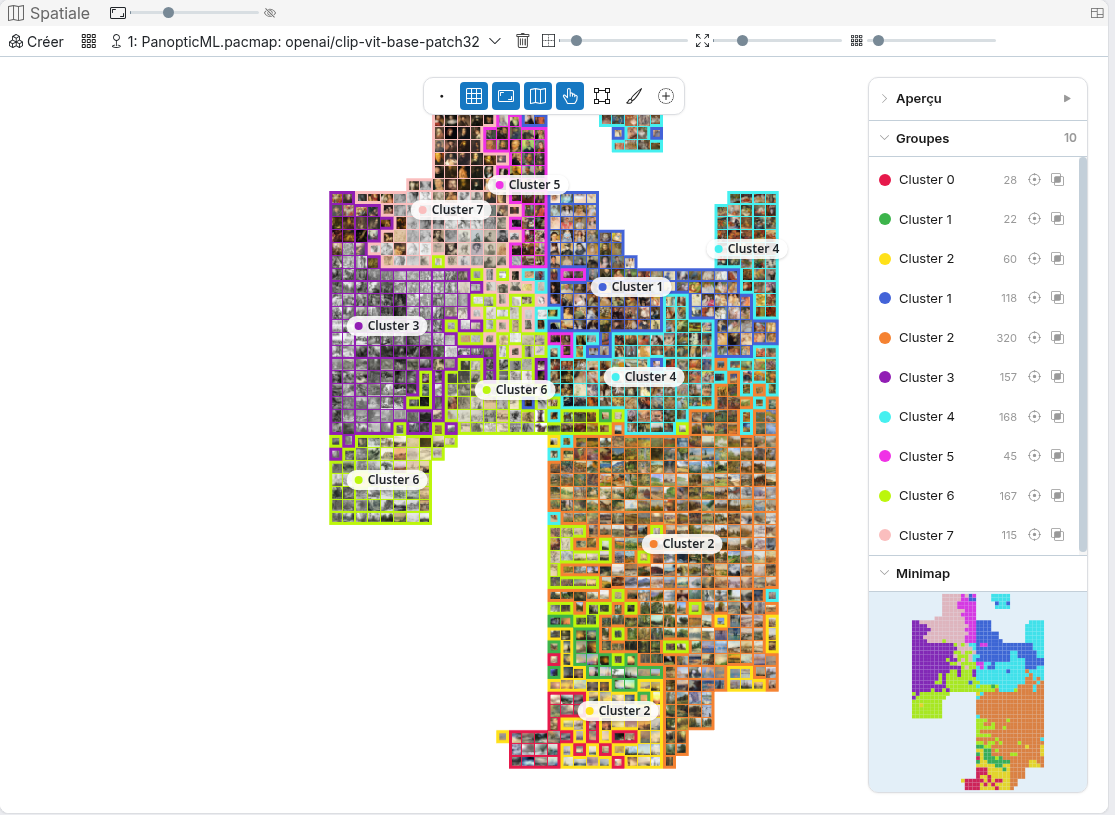
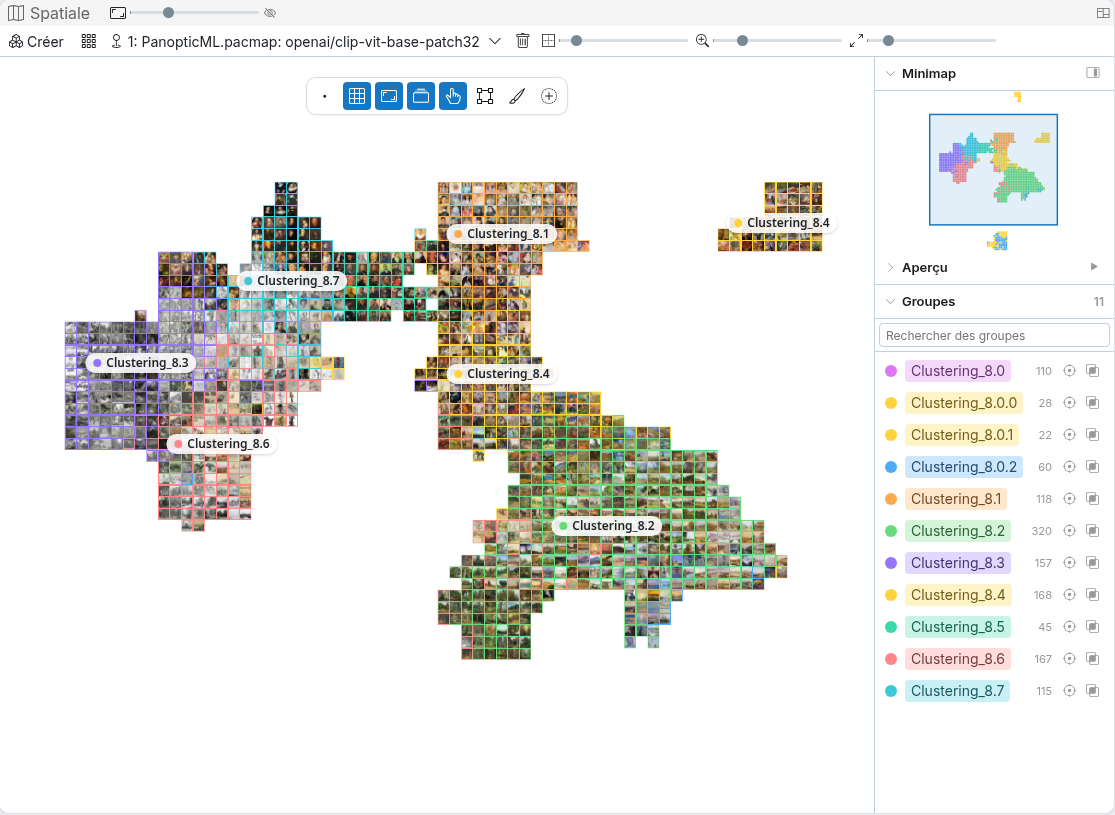
update views docs

diff --git a/docs/fr/advanced/onglets.md b/docs/fr/advanced/onglets.md
@@ -6,117 +6,10 @@ Les onglets se trouvent en haut à droite de l'écran. Le "+" crée un nouvel on
 
 ![Alt text](../images/v1/onglets.png)
 
+Chaque onglet a ses propres [filtres, tris et groupes](/start/filters/), ainsi que sa propre [vue](/start/vues/) et ses propriétés affichées. Passer d'un onglet à l'autre permet donc de retrouver instantanément chaque espace de travail dans l'état où on l'a laissé.
+
+Les onglets sont également propres à chaque [utilisateur](/start/projets/#utilisateurs) : lorsque plusieurs personnes travaillent sur un même projet, chacune retrouve ses propres onglets, sans modifier ceux des autres. Les annotations, elles, restent communes à tout le projet.
+
 ## Exemple de cas d'usage
 
 L'objectif est de pouvoir créer des espace de travail dédiés à certains objets à l'aide des filtres des tris et des groupes. Un exemple basique est l'utilisation d'un onglet "poubelle". On utilise un premier onglet d'exploration, dans lequel on annote les images avec une propriété de type checkbox "hors corpus" tout en appliquant un filtre sur cette propriété. Toutes les images qui sont cochées disparaissent alors instantanément du premier onglet grâce à ce filtre et aparaissent dans un autre onglet qui a le filtre inverse (c'est à dire ne laissant apparaître que les images qui ont la case "hors corpus" de cochée). Cela permet de revenir de temps en temps se concentrer sur l'onglet "poubelle" afin de revisionner les images qui ont été désignées comme hors corpus et de vérifier que l'on a pas fait d'erreur, sans pour autant devoir voir ces images là dans la vue principale.
-
-## Les vues
-
-Si chaque onglet peut avoir ses propres filtres, tris et groupes, il est également possible de configurer l'affichage désiré au niveau de l'onglet en choisissant la [vue](/concepts/#vues), dans le menu situé en haut à gauche des images. ![Alt text](../images/v1/vues.png)
-
-À droite du nom de la vue, le curseur permet de régler la taille des images et l'icône d'oeil d'afficher ou de masquer les propriétés sous les images.
-
-### La vue grille
-La vue par défaut, affiche une simple grille d'images.
-
-### La vue tableau
-
-Une vue sous forme de tableau classique, elle permet de se concentrer plus sur les propriétés accompagnant les images, notamment les propriétés de type texte pouvant prendre de la place. Chaque propriété affichée devient une colonne, dont la largeur peut être ajustée.
-
-![Alt text](../images/v1/vue-tableau.png)
-
-### La vue graphique
-
-Vue permettant d'afficher des graphiques montrant le nombre d'images contenues dans un groupage : le premier niveau de groupe devient l'axe horizontal. Exemple, si je groupe mes images par mouvement artistique et passe en vue graphique, je peux afficher le nombre d'images pour chaque mouvement, ainsi qu'une prévisualisation des images en survolant une barre ou un point. Les boutons en haut à gauche permettent de choisir entre courbes, aires et barres, et d'afficher une vignette sur chaque point. Il est aussi possible de cliquer ou de glisser sur le graphique pour sélectionner les images correspondantes.
-
-![Alt text](../images/v1/vue-graphe.png)
-
-!!! note
-
-    Il est à noter que tous les filtres et tris sont également appliqués en temps réel dans cette vue, ce qui vous permet de modifier votre graphique à la volée en fonction d'autres propriétés que vous auriez.
-    De même le groupage par date permet de changer la granularité du groupage en choisissant à la minute, heure, jour, semaine, mois, année. Ces changements sont également répercutés sur le graphe.
-
-Il est également possible de rajouter un second niveau de groupage permettant de fractionner le graphique en fonction d'une autre propriété : chaque valeur devient alors une série. Ici par exemple on rajoute un groupage par artiste après le groupage par mouvement. On a également choisi les barres et activé l'option "Empiler les séries".
-
-![Alt text](../images/v1/vue-graphe-empilee.png)
-
-### La vue spatiale
-
-La vue spatiale place les images sur une carte en deux dimensions : les images proches visuellement ou sémantiquement sont placées côte à côte. Pour l'utiliser, il faut d'abord créer une carte en cliquant sur "Créer", choisir les vecteurs à utiliser, éventuellement donner un nom à la carte, puis cliquer sur "Lancer".
-
-![Alt text](../images/v1/vue-spatiale-creer.png)
-
-Une fois la carte calculée, on peut s'y déplacer et zoomer à la souris. Dans l'exemple, on distingue nettement les dessins et gravures à gauche, les portraits en haut et les paysages en bas à droite. Le menu déroulant permet de passer d'une carte à une autre si plusieurs ont été créées, et la corbeille de supprimer la carte affichée. Les curseurs à droite de la corbeille règlent la largeur de la bordure des images et la taille de l'agrandissement affiché au survol d'une image.
-
-À droite de la carte, le panneau "Aperçu" affiche l'image survolée, et la "Minimap" montre l'ensemble de la carte avec, encadrée, la zone affichée : cliquer ou glisser sur la minimap permet de se déplacer rapidement. Chaque section du panneau peut être repliée en cliquant sur son titre.
-
-![Alt text](../images/v1/vue-spatiale.png)
-
-La barre d'outils au-dessus de la carte permet d'afficher les images sous forme de points, de passer en disposition en grille (voir plus bas), de se déplacer (main), ou de sélectionner des images en les entourant au lasso : le clic gauche ajoute les images entourées à la sélection, le clic droit les en retire. Les images ainsi sélectionnées peuvent ensuite être annotées par lots comme dans la grille. Quel que soit l'outil choisi, maintenir la touche espace enfoncée permet de déplacer la carte.
-
-Si les images sont groupées, chaque groupe est entouré d'une couleur différente et la liste des groupes s'affiche dans le panneau de droite. Cliquer sur un groupe de la liste le met en avant sur la carte, et les icônes à droite de son nom permettent de centrer la carte sur ce groupe ou d'y créer des clusters.
-
-![Alt text](../images/v1/vue-spatiale-groupes.png)
-
-#### La disposition en grille
-
-Dans les zones denses de la carte, les images se chevauchent et deviennent difficiles à distinguer. L'icône de grille de la barre d'outils range chaque image dans une case d'une grille régulière, sans aucun chevauchement, tout en conservant l'organisation de la carte : des images proches sur la carte restent voisines dans la grille, et des ensembles éloignés restent séparés par des cases vides. Un nouveau clic sur la même icône permet de revenir à tout moment à la disposition d'origine.
-
-![Alt text](../images/v1/vue-spatiale-outils.png)
-
-En mode grille, de nouvelles icônes apparaissent dans la barre d'outils, de gauche à droite après l'icône de grille :
-
-- **Remplir les cases** : recadre chaque image en carré pour qu'elle occupe toute sa case.
-- **Contours et noms des groupes** (seulement si les images sont groupées) : trace le contour de chaque groupe et affiche son nom sur la carte lorsque l'on dézoome, pour la lire comme une carte géographique.
-- **Sélection par cases** et **Pinceau à tags**, décrits ci-dessous.
-
-Le curseur "Cases vides entre les groupes", qui apparaît à droite des autres curseurs, règle l'espace laissé entre les ensembles d'images : plus la valeur est élevée, plus les groupes éloignés sur la carte sont séparés.
-
-![Alt text](../images/v1/vue-spatiale-grille.png)
-
-Dans l'exemple, les images ont été réparties en clusters : chaque cluster forme une région de la grille, entourée de sa couleur et portant son nom.
-
-!!! note
-
-    La grille est calculée une seule fois pour toute la carte. Lorsqu'un filtre masque des images, celles-ci laissent simplement leur case vide et les autres images ne bougent pas, ce qui permet de garder ses repères d'un filtre à l'autre.
-
-#### La sélection par cases
-
-L'outil de sélection par cases (icône de cadre) affiche un curseur carré qui couvre plusieurs cases de la grille. Il suffit de cliquer ou de glisser sur la carte pour sélectionner toutes les images couvertes, comme avec un pinceau. Les cases parcourues sont colorées pendant le geste, et la sélection est appliquée au relâchement du bouton.
-
-- le clic gauche ajoute les images à la sélection, le clic droit les en retire,
-- ctrl + molette change la taille du curseur (le nombre de cases couvertes est affiché en bas de la carte),
-- maintenir shift permet de sélectionner un rectangle entre la case de départ et la case courante.
-
-![Alt text](../images/v1/vue-spatiale-cases.png)
-
-Ici, 54 images ont été sélectionnées en quelques coups de curseur : la barre de sélection apparaît en haut de l'écran et les images peuvent être annotées par lots comme d'habitude (voir [Annoter par lots](/start/annotate/#annoter-par-lots)).
-
-#### Le pinceau à tags
-
-Le pinceau à tags (icône de pinceau) fonctionne avec les mêmes gestes que la sélection par cases, mais au lieu de sélectionner les images, il leur attribue directement un tag. Il permet ainsi d'annoter très rapidement toute une zone de la carte.
-
-Lorsque l'outil est actif, une section "Pinceau" apparaît en haut du panneau de droite. On y choisit la propriété de type tag ou multitags à annoter, puis le tag à appliquer : comme sous les images, il est possible de rechercher un tag existant ou d'en créer un nouveau à la volée, et de changer sa couleur. La croix à côté du tag permet de le désélectionner.
-
-![Alt text](../images/v1/vue-spatiale-pinceau.png)
-
-Tant qu'un tag est choisi, la carte montre ce qui a déjà été peint : les images qui portent le tag sont entourées de sa couleur, les autres sont grisées. Il suffit ensuite de peindre :
-
-- le clic gauche ajoute le tag aux images couvertes, le clic droit le leur retire,
-- ctrl + molette change la taille du pinceau et shift permet de peindre un rectangle, comme pour la sélection par cases.
-
-Pour une propriété de type tag, le tag peint remplace la valeur existante, alors que pour une propriété de type multitags il s'ajoute aux tags déjà présents. Chaque coup de pinceau est enregistré comme une seule modification dans l'historique et peut donc être annulé d'un coup avec ctrl + z.
-
-### La vue recommandations
-
-Cette vue propose des images similaires à un groupe pour le compléter (voir [Les recommandations](/start/reco/)).
-
-### La vue groupée
-
-Cette vue résume chaque groupe ou cluster par une mosaïque de quelques images. Elle est particulièrement utile pour avoir une vue d'ensemble des clusters et pour les annoter avec le bouton "Assigner à…" (voir [Les clusters](/start/clusters/)).
-
-## Diviser la vue
-
-L'icône en haut à droite des images ("Diviser à droite") permet d'afficher une seconde vue à côté de la première, dans le même onglet. On peut ainsi par exemple garder une grille d'images à gauche tout en consultant le tableau des propriétés à droite. Chaque côté a sa propre vue, sa taille d'images et ses propriétés affichées. La même icône, sur la vue de droite, permet de revenir à une seule vue.
-
-![Alt text](../images/v1/vue-divisee.png)

diff --git a/docs/fr/start/vues.md b/docs/fr/start/vues.md
@@ -1,0 +1,120 @@
+# Les vues
+
+Panoptic propose plusieurs façons d'afficher les images, appelées [vues](/concepts/#vues). On choisit la vue dans le menu situé en haut à gauche des images. Chaque [onglet](/advanced/onglets/) garde sa propre vue, en plus de ses filtres, tris et groupes.
+
+![Alt text](../images/v1/vues.png)
+
+À droite du nom de la vue, le curseur permet de régler la taille des images et l'icône d'oeil d'afficher ou de masquer les propriétés sous les images.
+
+## La vue grille
+La vue par défaut, affiche une simple grille d'images.
+
+## La vue tableau
+
+Une vue sous forme de tableau classique, elle permet de se concentrer plus sur les propriétés accompagnant les images, notamment les propriétés de type texte pouvant prendre de la place. Chaque propriété affichée devient une colonne, dont la largeur peut être ajustée.
+
+![Alt text](../images/v1/vue-tableau.png)
+
+## La vue graphique
+
+Vue permettant d'afficher des graphiques montrant le nombre d'images contenues dans un groupage : le premier niveau de groupe devient l'axe horizontal. Exemple, si je groupe mes images par mouvement artistique et passe en vue graphique, je peux afficher le nombre d'images pour chaque mouvement, ainsi qu'une prévisualisation des images en survolant une barre ou un point. Les boutons en haut à gauche permettent de choisir entre courbes, aires et barres, et d'afficher une vignette sur chaque point. Il est aussi possible de cliquer ou de glisser sur le graphique pour sélectionner les images correspondantes.
+
+![Alt text](../images/v1/vue-graphe.png)
+
+!!! note
+
+    Il est à noter que tous les filtres et tris sont également appliqués en temps réel dans cette vue, ce qui vous permet de modifier votre graphique à la volée en fonction d'autres propriétés que vous auriez.
+    De même le groupage par date permet de changer la granularité du groupage en choisissant à la minute, heure, jour, semaine, mois, année. Ces changements sont également répercutés sur le graphe.
+
+Il est également possible de rajouter un second niveau de groupage permettant de fractionner le graphique en fonction d'une autre propriété : chaque valeur devient alors une série. Ici par exemple on rajoute un groupage par artiste après le groupage par mouvement. On a également choisi les barres et activé l'option "Empiler les séries".
+
+![Alt text](../images/v1/vue-graphe-empilee.png)
+
+## La vue spatiale
+
+La vue spatiale place les images sur une carte en deux dimensions : les images proches visuellement ou sémantiquement sont placées côte à côte. Pour l'utiliser, il faut d'abord créer une carte en cliquant sur "Créer", choisir les vecteurs à utiliser, éventuellement donner un nom à la carte, puis cliquer sur "Lancer".
+
+![Alt text](../images/v1/vue-spatiale-creer.png)
+
+Une fois la carte calculée, on peut s'y déplacer et zoomer à la souris. Dans l'exemple, on distingue nettement les dessins et gravures à gauche, les portraits en haut et les paysages en bas à droite. Le menu déroulant permet de passer d'une carte à une autre si plusieurs ont été créées, et la corbeille de supprimer la carte affichée. Les curseurs à droite de la corbeille règlent la largeur de la bordure des images, la taille de l'agrandissement affiché au survol d'une image et l'écartement des images sur la carte.
+
+À droite de la carte, le panneau "Aperçu" affiche l'image survolée, et la "Minimap" montre l'ensemble de la carte avec, encadrée, la zone affichée : cliquer ou glisser sur la minimap permet de se déplacer rapidement. Chaque section du panneau peut être repliée en cliquant sur son titre.
+
+![Alt text](../images/v1/vue-spatiale.png)
+
+La barre d'outils au-dessus de la carte permet d'afficher les images sous forme de points, de passer en disposition en grille (voir plus bas), de se déplacer (main), ou de sélectionner des images en les entourant au lasso : le clic gauche ajoute les images entourées à la sélection, le clic droit les en retire. Les images ainsi sélectionnées peuvent ensuite être annotées par lots comme dans la grille. Quel que soit l'outil choisi, maintenir la touche espace enfoncée permet de déplacer la carte.
+
+Si les images sont groupées, chaque groupe est entouré d'une couleur différente et la liste des groupes s'affiche dans le panneau de droite. Cliquer sur un groupe de la liste le met en avant sur la carte, et les icônes à droite de son nom permettent de centrer la carte sur ce groupe ou d'y créer des clusters.
+
+![Alt text](../images/v1/vue-spatiale-groupes.png)
+
+### La disposition en grille
+
+Dans les zones denses de la carte, les images se chevauchent et deviennent difficiles à distinguer. L'icône de grille de la barre d'outils range chaque image dans une case d'une grille régulière, sans aucun chevauchement, tout en conservant l'organisation de la carte : des images proches sur la carte restent voisines dans la grille, et des ensembles éloignés restent séparés par des cases vides. Un nouveau clic sur la même icône permet de revenir à tout moment à la disposition d'origine.
+
+![Alt text](../images/v1/vue-spatiale-outils.png)
+
+En mode grille, de nouvelles icônes apparaissent dans la barre d'outils, de gauche à droite après l'icône de grille :
+
+- **Remplir les cases** : recadre chaque image en carré pour qu'elle occupe toute sa case.
+- **Contours et noms des groupes** (seulement si les images sont groupées) : trace le contour de chaque groupe et affiche son nom sur la carte lorsque l'on dézoome, pour la lire comme une carte géographique.
+- **Sélection par cases** et **Pinceau à tags**, décrits ci-dessous.
+
+Sans aucun groupe, la grille montre simplement les images de la carte rangées côte à côte :
+
+![Alt text](../images/v1/vue-spatiale-grille-simple.png)
+
+En mode grille, le dernier curseur à droite devient "Cases vides entre les groupes" : il règle l'espace laissé entre les ensembles d'images. Plus la valeur est élevée, plus les ensembles éloignés sur la carte sont séparés. En l'augmentant, les grandes zones de la carte (dessins, portraits, paysages…) se détachent nettement les unes des autres :
+
+![Alt text](../images/v1/vue-spatiale-grille-espacee.png)
+
+Si l'on groupe ensuite les images, par exemple après les avoir réparties en [clusters](/start/clusters/), chaque cluster forme une région de la grille, entourée de sa couleur et portant son nom :
+
+![Alt text](../images/v1/vue-spatiale-grille.png)
+
+C'est à partir de cette grille que sont présentés les outils de sélection et d'annotation ci-dessous.
+
+!!! note
+
+    La grille est calculée une seule fois pour toute la carte. Lorsqu'un filtre masque des images, celles-ci laissent simplement leur case vide et les autres images ne bougent pas, ce qui permet de garder ses repères d'un filtre à l'autre.
+
+### La sélection par cases
+
+L'outil de sélection par cases (icône de cadre) affiche un curseur carré qui couvre plusieurs cases de la grille. Il suffit de cliquer ou de glisser sur la carte pour sélectionner toutes les images couvertes, comme avec un pinceau. Les cases parcourues sont colorées pendant le geste, et la sélection est appliquée au relâchement du bouton.
+
+- le clic gauche ajoute les images à la sélection, le clic droit les en retire,
+- ctrl + molette change la taille du curseur (le nombre de cases couvertes est affiché en bas de la carte),
+- maintenir shift permet de sélectionner un rectangle entre la case de départ et la case courante.
+
+![Alt text](../images/v1/vue-spatiale-cases.png)
+
+Ici, 99 images, essentiellement du cluster Clustering_8.3, ont été sélectionnées en quelques coups de curseur : la barre de sélection apparaît en haut de l'écran et les images peuvent être annotées par lots comme d'habitude (voir [Annoter par lots](/start/annotate/#annoter-par-lots)).
+
+### Le pinceau à tags
+
+Le pinceau à tags (icône de pinceau) fonctionne avec les mêmes gestes que la sélection par cases, mais au lieu de sélectionner les images, il leur attribue directement un tag. Il permet ainsi d'annoter très rapidement toute une zone de la carte.
+
+Lorsque l'outil est actif, une section "Pinceau" apparaît dans le panneau de droite, sous l'aperçu. On y choisit la propriété de type tag ou multitags à annoter, puis le tag à appliquer : comme sous les images, il est possible de rechercher un tag existant ou d'en créer un nouveau à la volée, et de changer sa couleur. La croix à côté du tag permet de le désélectionner.
+
+![Alt text](../images/v1/vue-spatiale-pinceau.png)
+
+Tant qu'un tag est choisi, la carte montre ce qui a déjà été peint : les images qui portent le tag sont entourées de sa couleur, les autres sont grisées. Il suffit ensuite de peindre :
+
+- le clic gauche ajoute le tag aux images couvertes, le clic droit le leur retire,
+- ctrl + molette change la taille du pinceau et shift permet de peindre un rectangle, comme pour la sélection par cases.
+
+Pour une propriété de type tag, le tag peint remplace la valeur existante, alors que pour une propriété de type multitags il s'ajoute aux tags déjà présents. Chaque coup de pinceau est enregistré comme une seule modification dans l'historique et peut donc être annulé d'un coup avec ctrl + z.
+
+## La vue recommandations
+
+Cette vue propose des images similaires à un groupe pour le compléter (voir [Les recommandations](/start/reco/)).
+
+## La vue groupée
+
+Cette vue résume chaque groupe ou cluster par une mosaïque de quelques images. Elle est particulièrement utile pour avoir une vue d'ensemble des clusters et pour les annoter avec le bouton "Assigner à…" (voir [Les clusters](/start/clusters/)).
+
+## Diviser la vue
+
+L'icône en haut à droite des images ("Diviser à droite") permet d'afficher une seconde vue à côté de la première, dans le même onglet. On peut ainsi par exemple garder une grille d'images à gauche tout en consultant le tableau des propriétés à droite. Chaque côté a sa propre vue, sa taille d'images et ses propriétés affichées. La même icône, sur la vue de droite, permet de revenir à une seule vue.
+
+![Alt text](../images/v1/vue-divisee.png)

diff --git a/docs/fr/method/clusters.md b/docs/fr/method/clusters.md
@@ -18,10 +18,10 @@ Ce corpus semble n'être pas facilement découpable en sous ensembles bien défi
 
 Avant de se lancer dans un découpage fin, il est utile de faire quelques essais de clustering et de vérifier que le résultat est à peu près cohérent avec la répartition des images sur la carte. Les clusters et la carte sont calculés à partir des mêmes vecteurs : s'ils sont d'accord, c'est un bon signe que le découpage correspond à une organisation réelle du corpus.
 
-Pour cela, on divise la vue (voir [Diviser la vue](/advanced/onglets/#diviser-la-vue)) avec :
+Pour cela, on divise la vue (voir [Diviser la vue](/start/vues/#diviser-la-vue)) avec :
 
 - à gauche, la vue "Groupée", qui résume chaque cluster par une mosaïque d'images,
-- à droite, la vue spatiale affichée sous forme de points (voir [La vue spatiale](/advanced/onglets/#la-vue-spatiale)).
+- à droite, la vue spatiale affichée sous forme de points (voir [La vue spatiale](/start/vues/#la-vue-spatiale)).
 
 Dès que des clusters sont créés, chaque point de la carte prend la couleur de son cluster, et la liste des clusters avec leur couleur s'affiche dans le panneau à droite de la carte. Un clustering cohérent avec la carte forme des zones de couleur bien distinctes, alors que des couleurs entremêlées signalent un découpage qui ne correspond pas à ce que montre la carte.
 

diff --git a/docs/fr/start/clusters.md b/docs/fr/start/clusters.md
@@ -31,7 +31,7 @@ Les clusters produits possèdent chacun un score affiché en couleur à côté d
 
 ### La vue "Groupée"
 
-Pour avoir une vue d'ensemble des clusters, il est conseillé de passer en vue "Groupée" (menu des vues, en haut à gauche des images, voir [Les onglets](/advanced/onglets/)). Chaque cluster y est résumé par une mosaïque de quelques images, avec son score et son nombre d'images. Les icônes en haut à gauche de la vue permettent de choisir entre une image unique ou une mosaïque plus ou moins grande pour chaque cluster.
+Pour avoir une vue d'ensemble des clusters, il est conseillé de passer en vue "Groupée" (menu des vues, en haut à gauche des images, voir [Les vues](/start/vues/)). Chaque cluster y est résumé par une mosaïque de quelques images, avec son score et son nombre d'images. Les icônes en haut à gauche de la vue permettent de choisir entre une image unique ou une mosaïque plus ou moins grande pour chaque cluster.
 
 ![Alt text](../images/v1/vue-groupee.png)
 

diff --git a/docs/fr/advanced/astuces.md b/docs/fr/advanced/astuces.md
@@ -17,7 +17,7 @@ Cette section vise à recenser quelques raccourcis claviers et astuces d'utilisa
 - **tab lorsque l'on est en train d'annoter une image:** passe à l'annotation de la même propriété sur l'image d'après, 
 - **entrée permet de valider la plupart des actions (annotation, clusters, executer etc.)**
 - **espace maintenu dans la vue spatiale:** déplace la carte, quel que soit l'outil sélectionné,
-- **ctrl + molette avec la sélection par cases ou le pinceau à tags:** change la taille du curseur (voir [La vue spatiale](/advanced/onglets/#la-vue-spatiale)).
+- **ctrl + molette avec la sélection par cases ou le pinceau à tags:** change la taille du curseur (voir [La vue spatiale](/start/vues/#la-vue-spatiale)).
 
 ## Historique des modifications
 

diff --git a/docs/fr/compare/spatialisation.md b/docs/fr/compare/spatialisation.md
@@ -1,6 +1,6 @@
 # Spatialisation
 
-La vue spatiale place les images sur une carte en deux dimensions à partir de leurs vecteurs (voir [Les onglets](/advanced/onglets/#la-vue-spatiale)). Deux images proches pour le modèle doivent se retrouver côte à côte sur la carte : la qualité de la carte dépend donc directement du modèle choisi.
+La vue spatiale place les images sur une carte en deux dimensions à partir de leurs vecteurs (voir [La vue spatiale](/start/vues/#la-vue-spatiale)). Deux images proches pour le modèle doivent se retrouver côte à côte sur la carte : la qualité de la carte dépend donc directement du modèle choisi.
 
 ## La mesure
 
